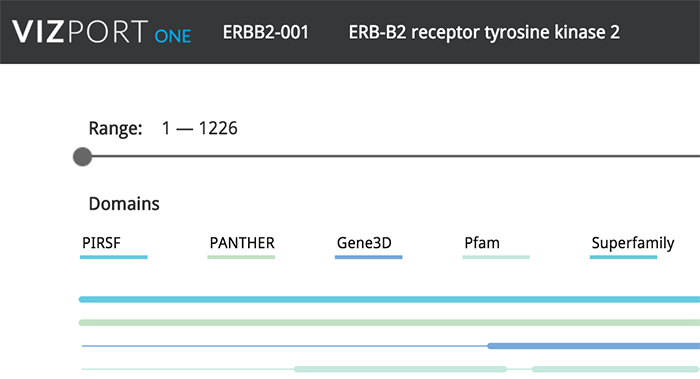
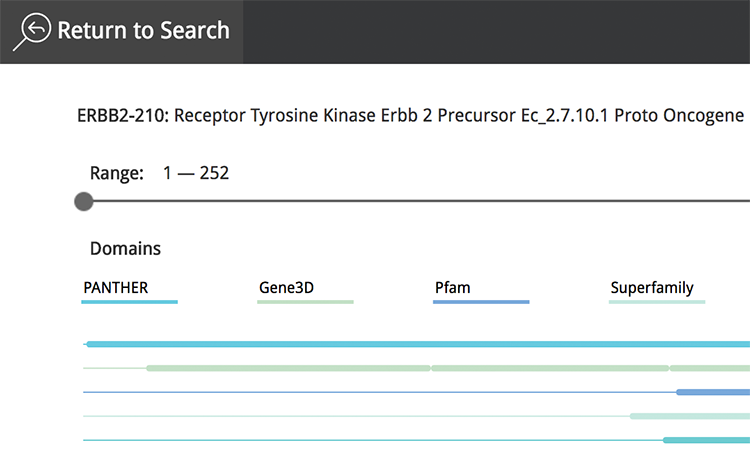
changed image on section 4 to reflect UI changes

diff --git a/src/html/index.html b/src/html/index.html
@@ -54,12 +54,13 @@
 
 					<div id="question-3" class="col-lg-8 question">
 						<p><b>3. How to visualize a protein?</b><br>
-						To visualize a protein from the home screen, click on the search bar and start typing the name of the protein according to Ensembl classification. For instance, if you're looking for protein "ERBB2-202", type "erb" and a list will be populated with all matching proteins.</p>
+						To visualize a protein from the home screen, click on the search bar and start typing the name of the protein according to Ensembl classification. For instance, if you're looking for protein "ERBB2-202", type "erb" and a list will be populated with all matching proteins.<br><br>
+						To visualize another protein from the visualization screen, click on the button labeled "Return to Search" on the top left of the navigation bar.</p>
 					</div>
 
 					<div id="question-4" class="col-lg-8 question">
 						<p><b>4. How to navigate within a protein?</b><br>
-						Once you have selected a protein, you can see its name and description on the top navigation bar. Below you will find the protein range bar. This bar describes the range of amino acids that are currently displayed. By default, this range displays the complete protein.</p>
+						Once you have selected a protein, you can see its name and description below the top navigation bar. Below the name you will find the protein range bar. This bar describes the range of amino acids that are currently displayed. By default, this range displays the complete protein.</p>
 						<img src="images/doc_4.png" alt="image of the range bar", class="img-responsive">
 						<p>To only view a portion of the protein in order to enhance the level of detail, click and drag one of the two circular handles and the the graphics will update automatically.</p>
 					</div>
